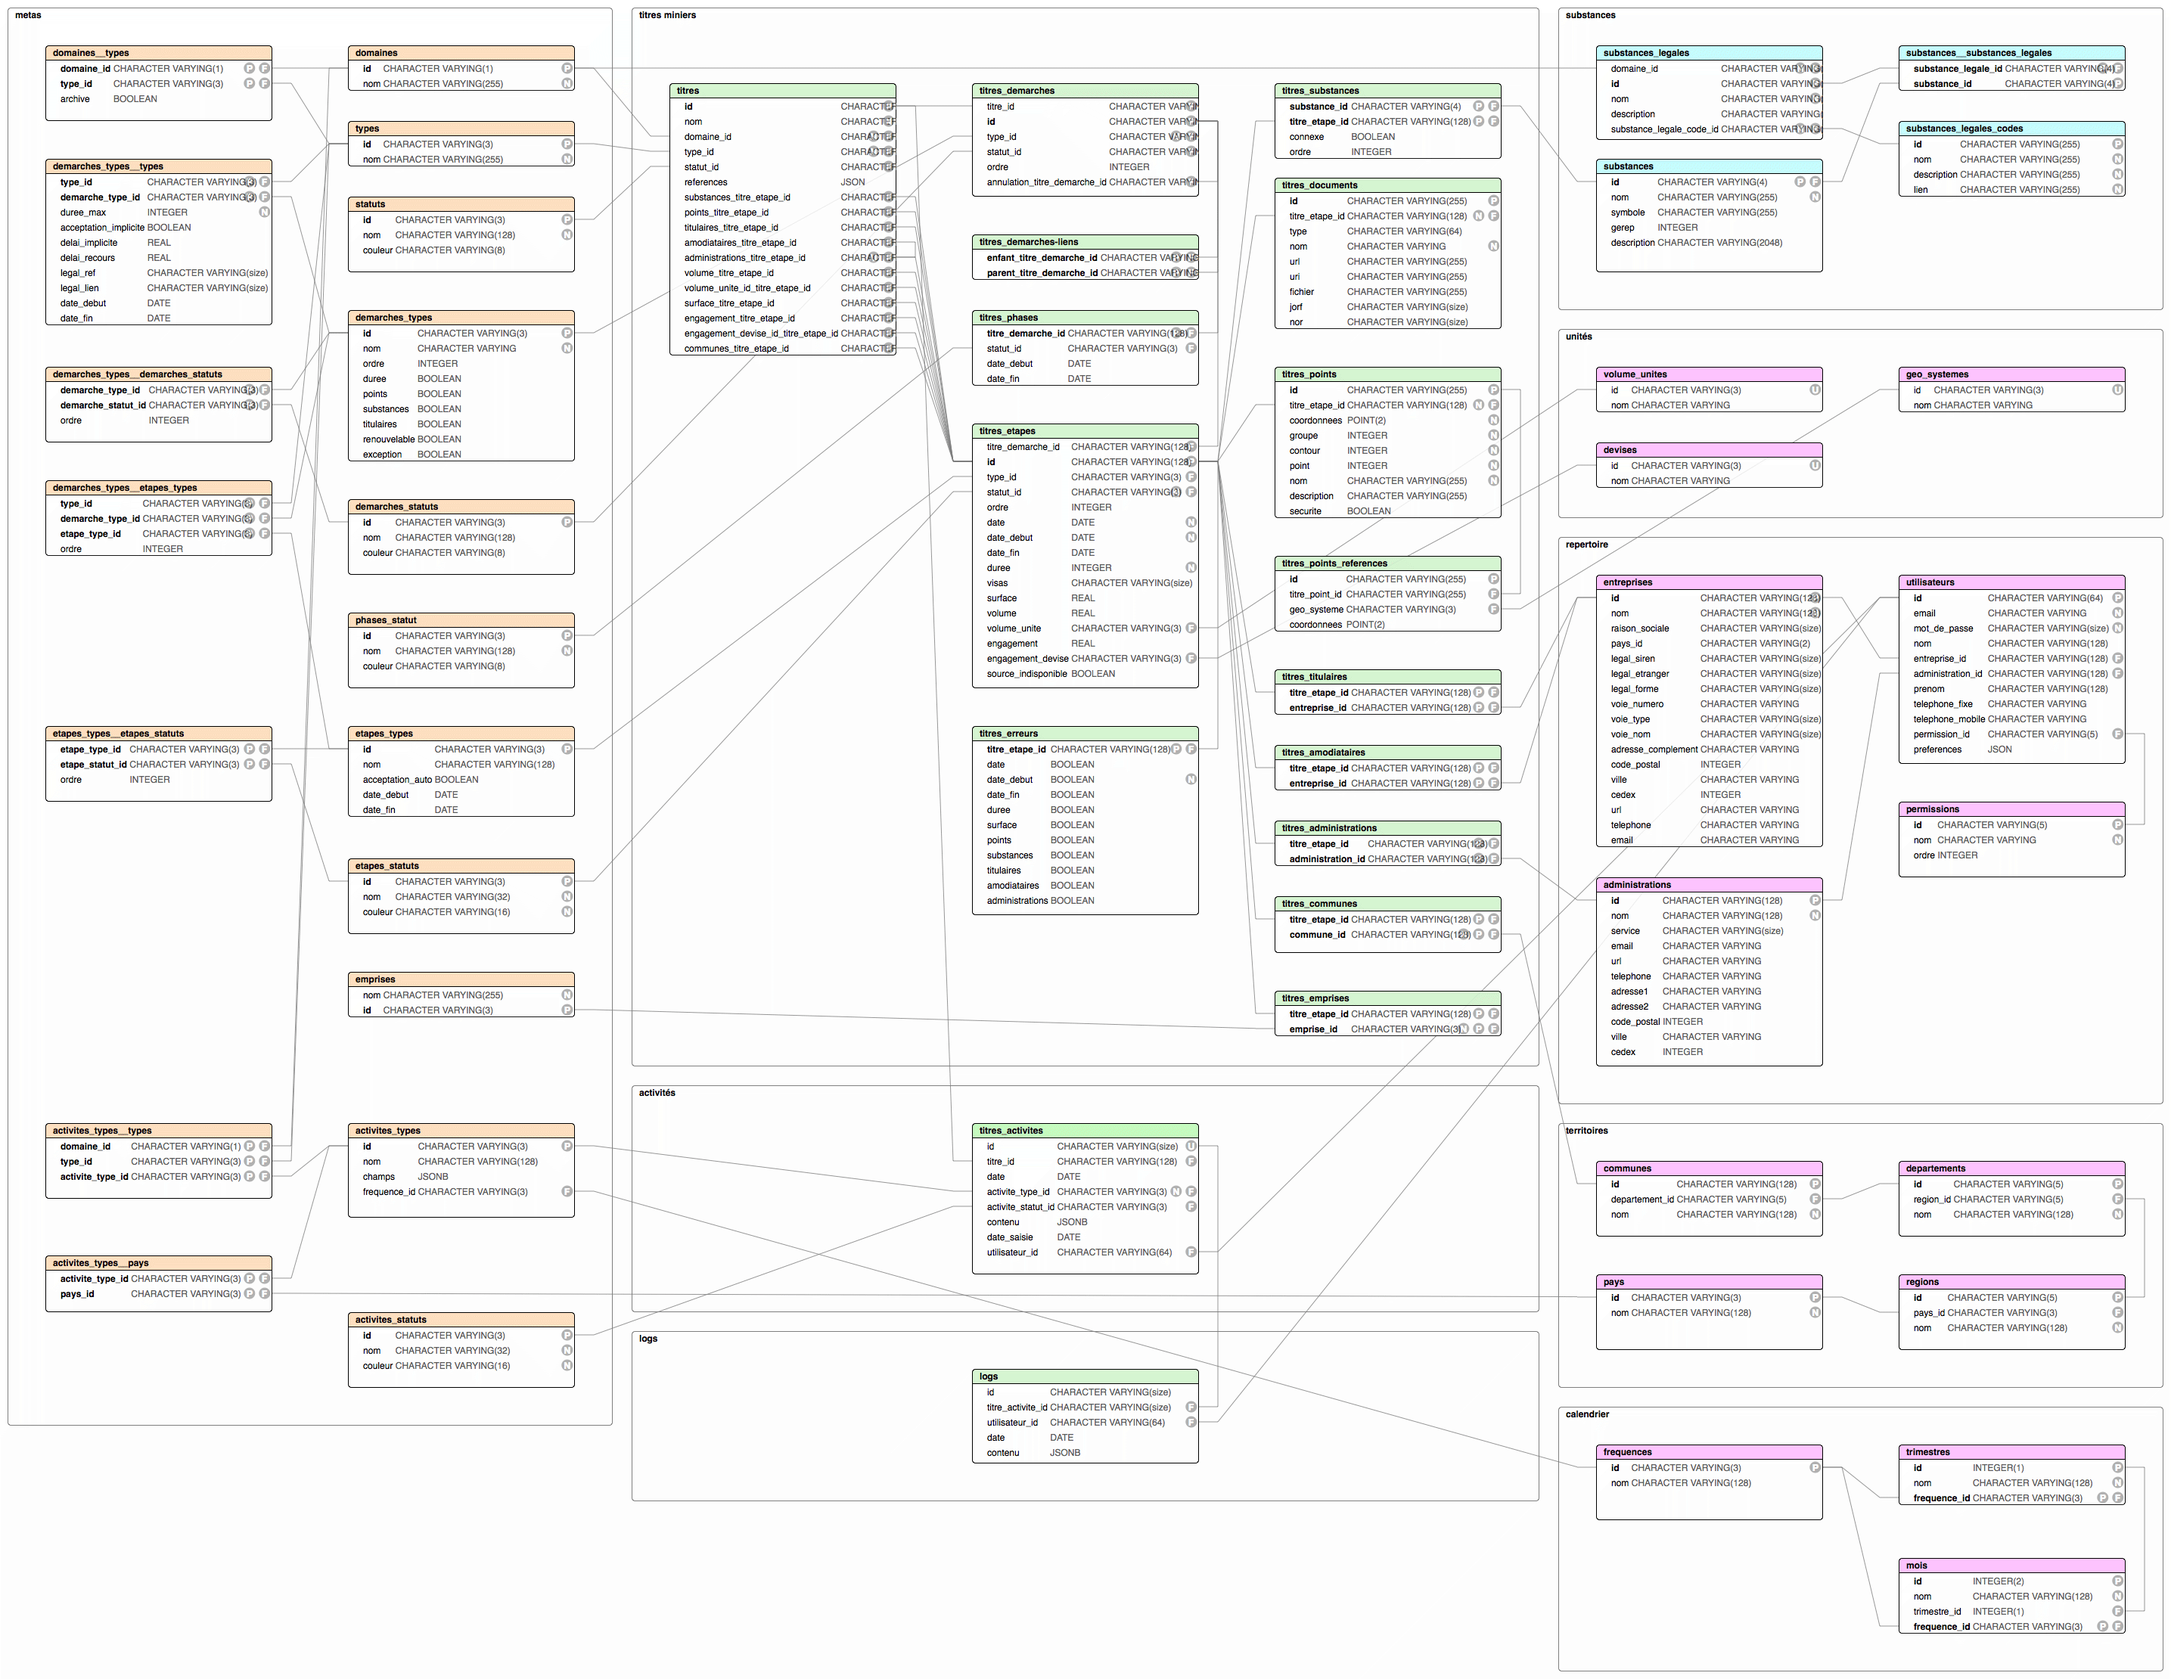
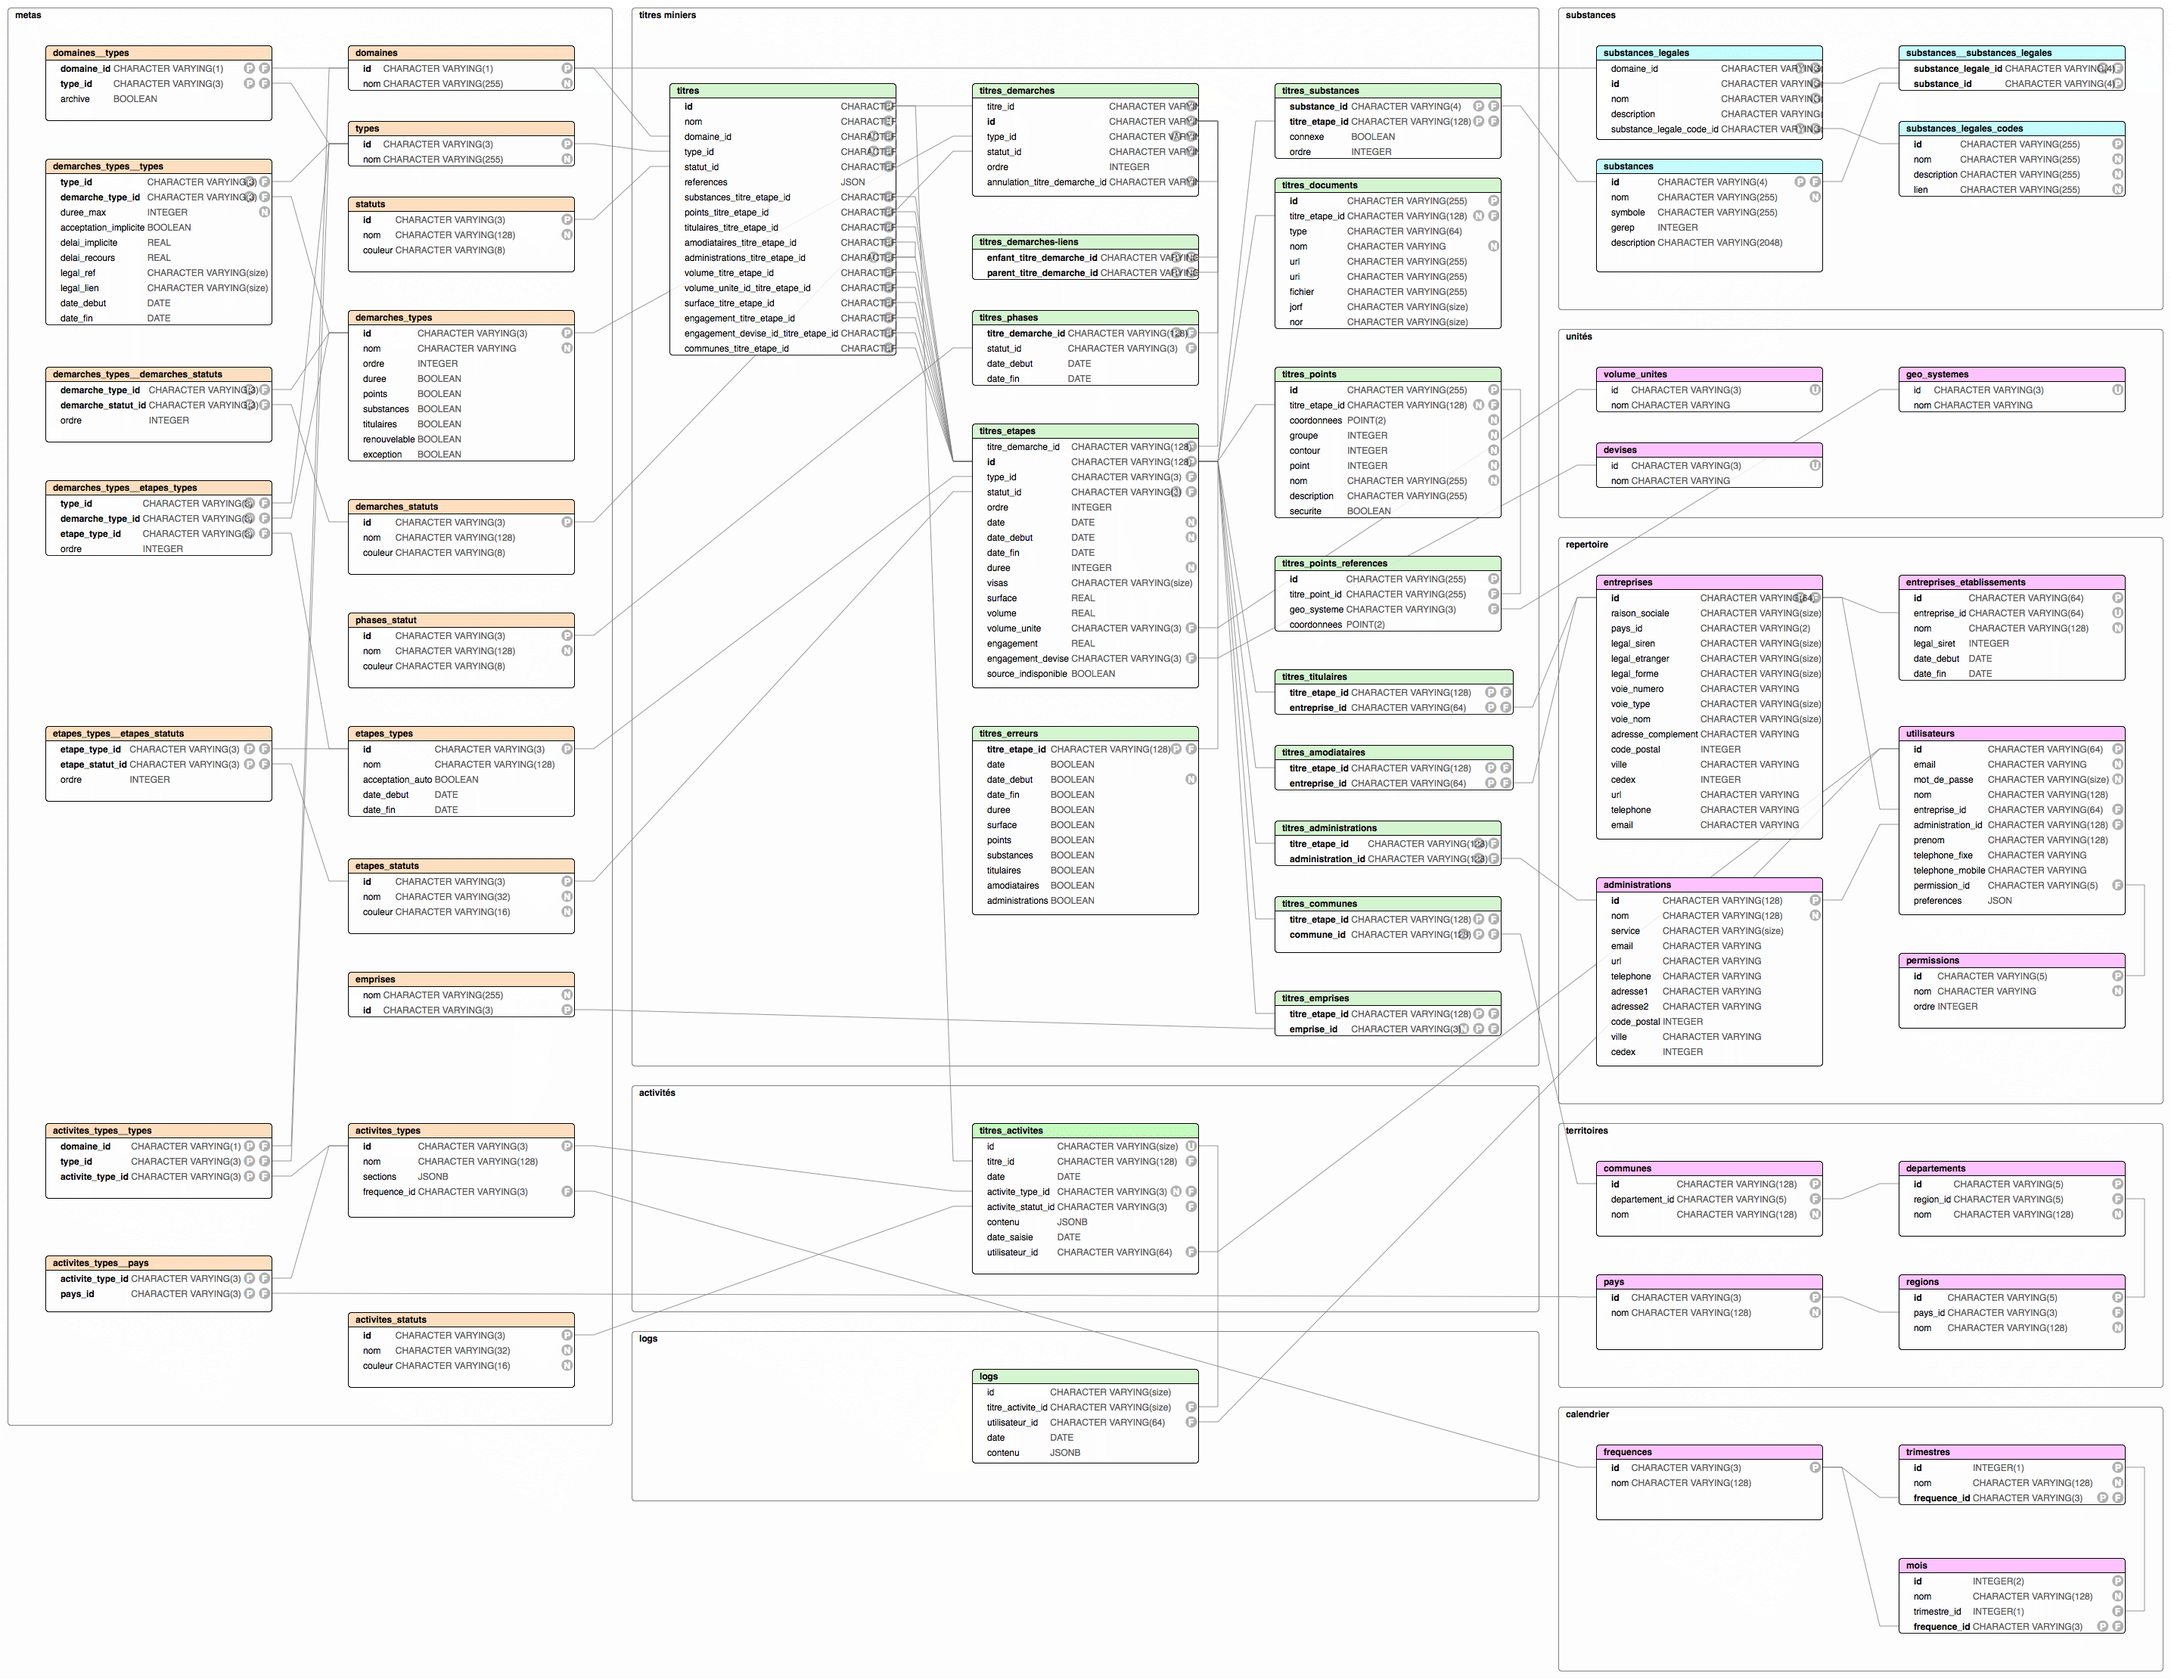
feat(entreprises): prend en compte les établissements

diff --git a/knex/seeds/4-repertoire.js b/knex/seeds/4-repertoire.js
@@ -9,6 +9,16 @@ const entreprisesS = require('../../sources/entreprises-titres-s.json')
 const entreprisesW = require('../../sources/entreprises-titres-w.json')
 const administrations = require('../../sources/administrations.json')
 
+const entreprisesCEtablissements = require('../../sources/entreprises-titres-c-etablissements.json')
+const entreprisesFEtablissements = require('../../sources/entreprises-titres-f-etablissements.json')
+const entreprisesGEtablissements = require('../../sources/entreprises-titres-g-etablissements.json')
+const entreprisesHEtablissements = require('../../sources/entreprises-titres-h-etablissements.json')
+const entreprisesMEtablissements = require('../../sources/entreprises-titres-m-etablissements.json')
+const entreprisesM973Etablissements = require('../../sources/entreprises-titres-m973-etablissements.json')
+const entreprisesREtablissements = require('../../sources/entreprises-titres-r-etablissements.json')
+const entreprisesSEtablissements = require('../../sources/entreprises-titres-s-etablissements.json')
+const entreprisesWEtablissements = require('../../sources/entreprises-titres-w-etablissements.json')
+
 const entreprises = [
   ...entreprisesC,
   ...entreprisesF,
@@ -19,6 +29,18 @@ const entreprises = [
   ...entreprisesR,
   ...entreprisesS,
   ...entreprisesW
+]
+
+const entreprisesEtablissements = [
+  ...entreprisesCEtablissements,
+  ...entreprisesFEtablissements,
+  ...entreprisesGEtablissements,
+  ...entreprisesHEtablissements,
+  ...entreprisesMEtablissements,
+  ...entreprisesM973Etablissements,
+  ...entreprisesREtablissements,
+  ...entreprisesSEtablissements,
+  ...entreprisesWEtablissements
 ]
 
 const findup = (array, key1) =>
@@ -38,10 +60,17 @@ const findup = (array, key1) =>
 const entr = findup(entreprises, 'id')
 
 exports.seed = (knex, Promise) =>
-  Promise.all([knex('entreprises').del(), knex('administrations').del()]).then(
-    () =>
+  Promise.all([
+    knex('entreprisesEtablissements').del(),
+    knex('administrations').del()
+  ])
+    .then(() => knex('entreprises').del())
+    .then(() =>
       Promise.all([
         knex('entreprises').insert(entr),
         knex('administrations').insert(administrations)
       ])
-  )
+    )
+    .then(() =>
+      knex('entreprisesEtablissements').insert(entreprisesEtablissements)
+    )

diff --git a/knex/migrations/20180521000006_repertoire.js b/knex/migrations/20180521000006_repertoire.js
@@ -2,7 +2,6 @@ exports.up = knex => {
   return knex.schema
     .createTable('entreprises', table => {
       table.string('id', 64).primary()
-      table.string('nom')
       table.string('raisonSociale')
       table.string('paysId')
       table.string('legalSiren')
@@ -20,6 +19,18 @@ exports.up = knex => {
       table.string('url')
       table.string('email')
       table.string('telephone')
+    })
+    .createTable('entreprisesEtablissements', table => {
+      table.string('id', 64).primary()
+      table
+        .string('entrepriseId', 64)
+        .references('entreprises.id')
+        .notNullable()
+        .onDelete('CASCADE')
+      table.string('nom')
+      table.string('legalSiret')
+      table.date('dateDebut')
+      table.date('dateFin')
     })
     .createTable('administrations', table => {
       table.string('id', 64).primary()
@@ -66,6 +77,7 @@ exports.up = knex => {
 
 exports.down = knex => {
   return knex.schema
+    .dropTable('entreprisesEtablissements')
     .dropTable('utilisateurs')
     .dropTable('permissions')
     .dropTable('entreprises')

diff --git a/src/database/models/entreprises.js b/src/database/models/entreprises.js
@@ -1,5 +1,5 @@
 import { Model } from 'objection'
-import { join } from 'path'
+import EntreprisesEtablissements from './entreprises-etablissements'
 
 export default class Entreprises extends Model {
   static tableName = 'entreprises'
@@ -10,7 +10,6 @@ export default class Entreprises extends Model {
 
     properties: {
       id: { type: 'string', maxLength: 64 },
-      nom: { type: ['string', 'null'] },
       raisonSociale: { type: ['string', 'null'] },
       paysId: { type: ['string', 'null'] },
       legalSiren: { type: ['string', 'null'] },
@@ -36,6 +35,15 @@ export default class Entreprises extends Model {
       join: {
         from: 'entreprises.id',
         to: 'utilisateurs.entrepriseId'
+      }
+    },
+
+    etablissements: {
+      relation: Model.HasManyRelation,
+      modelClass: EntreprisesEtablissements,
+      join: {
+        from: 'entreprises.id',
+        to: 'entreprisesEtablissements.entrepriseId'
       }
     }
   }

diff --git a/src/tools/import/spreadsheets.js b/src/tools/import/spreadsheets.js
@@ -134,7 +134,16 @@ const spreadsheets = [
       { name: 'titres_m973' },
       { name: 'titres_r' },
       { name: 'titres_s' },
-      { name: 'titres_w' }
+      { name: 'titres_w' },
+      { name: 'titres_c_etablissements' },
+      { name: 'titres_f_etablissements' },
+      { name: 'titres_g_etablissements' },
+      { name: 'titres_h_etablissements' },
+      { name: 'titres_m_etablissements' },
+      { name: 'titres_m973_etablissements' },
+      { name: 'titres_r_etablissements' },
+      { name: 'titres_s_etablissements' },
+      { name: 'titres_w_etablissements' }
     ],
     prefixFileName: true
   },

diff --git a/src/api/schemas/entreprises.ts b/src/api/schemas/entreprises.ts
@@ -1,7 +1,6 @@
 export default `
 type Entreprise {
   id: ID!
-  nom: String
   raisonSociale: String
   paysId: String
   legalSiren: String
@@ -17,12 +16,20 @@ type Entreprise {
   url: String
   telephone: String
   email: String
+  etablissements: [EntrepriseEtablissement]
   utilisateurs: [Utilisateur]
+}
+
+type EntrepriseEtablissement {
+  id: ID!
+  nom: String!
+  dateDebut: Date
+  dateFin: Date
+  legalSiret: String
 }
 
 input InputEntreprise {
   id: ID!
-  nom: String
   raisonSociale: String
   paysId: String
   legalSiren: String

diff --git a/src/database/models/entreprises-etablissements.js b/src/database/models/entreprises-etablissements.js
@@ -1,0 +1,18 @@
+import { Model } from 'objection'
+
+export default class EntreprisesEtablissements extends Model {
+  static tableName = 'entreprisesEtablissements'
+
+  static jsonSchema = {
+    type: 'object',
+    required: ['id', 'entrepriseId', 'nom'],
+
+    properties: {
+      id: { type: 'string', maxLength: 64 },
+      nom: { type: ['string', 'null'] },
+      legalSiret: { type: ['string', 'null'] },
+      dateDebut: { type: ['date', 'null'] },
+      dateFin: { type: ['date', 'null'] }
+    }
+  }
+}

diff --git a/src/database/queries/titres.js b/src/database/queries/titres.js
@@ -92,7 +92,7 @@ const titresGet = async ({
 
   if (entreprises) {
     const fields = [
-      'titulaires.nom',
+      'titulaires:etablissements.nom',
       'titulaires.id'
       // 'amodiataires.nom',
       // 'amodiataires.id'
@@ -122,7 +122,7 @@ const titresGet = async ({
           []
         )
       )
-      .joinRelation('titulaires')
+      .joinRelation('titulaires.etablissements')
   }
 
   if (territoires) {

diff --git a/src/database/queries/_options.js b/src/database/queries/_options.js
@@ -12,7 +12,7 @@ const administrations = {
 }
 
 const entreprises = {
-  eager: `utilisateurs.permission`
+  eager: `[utilisateurs.permission, etablissements]`
 }
 
 const substances = {
